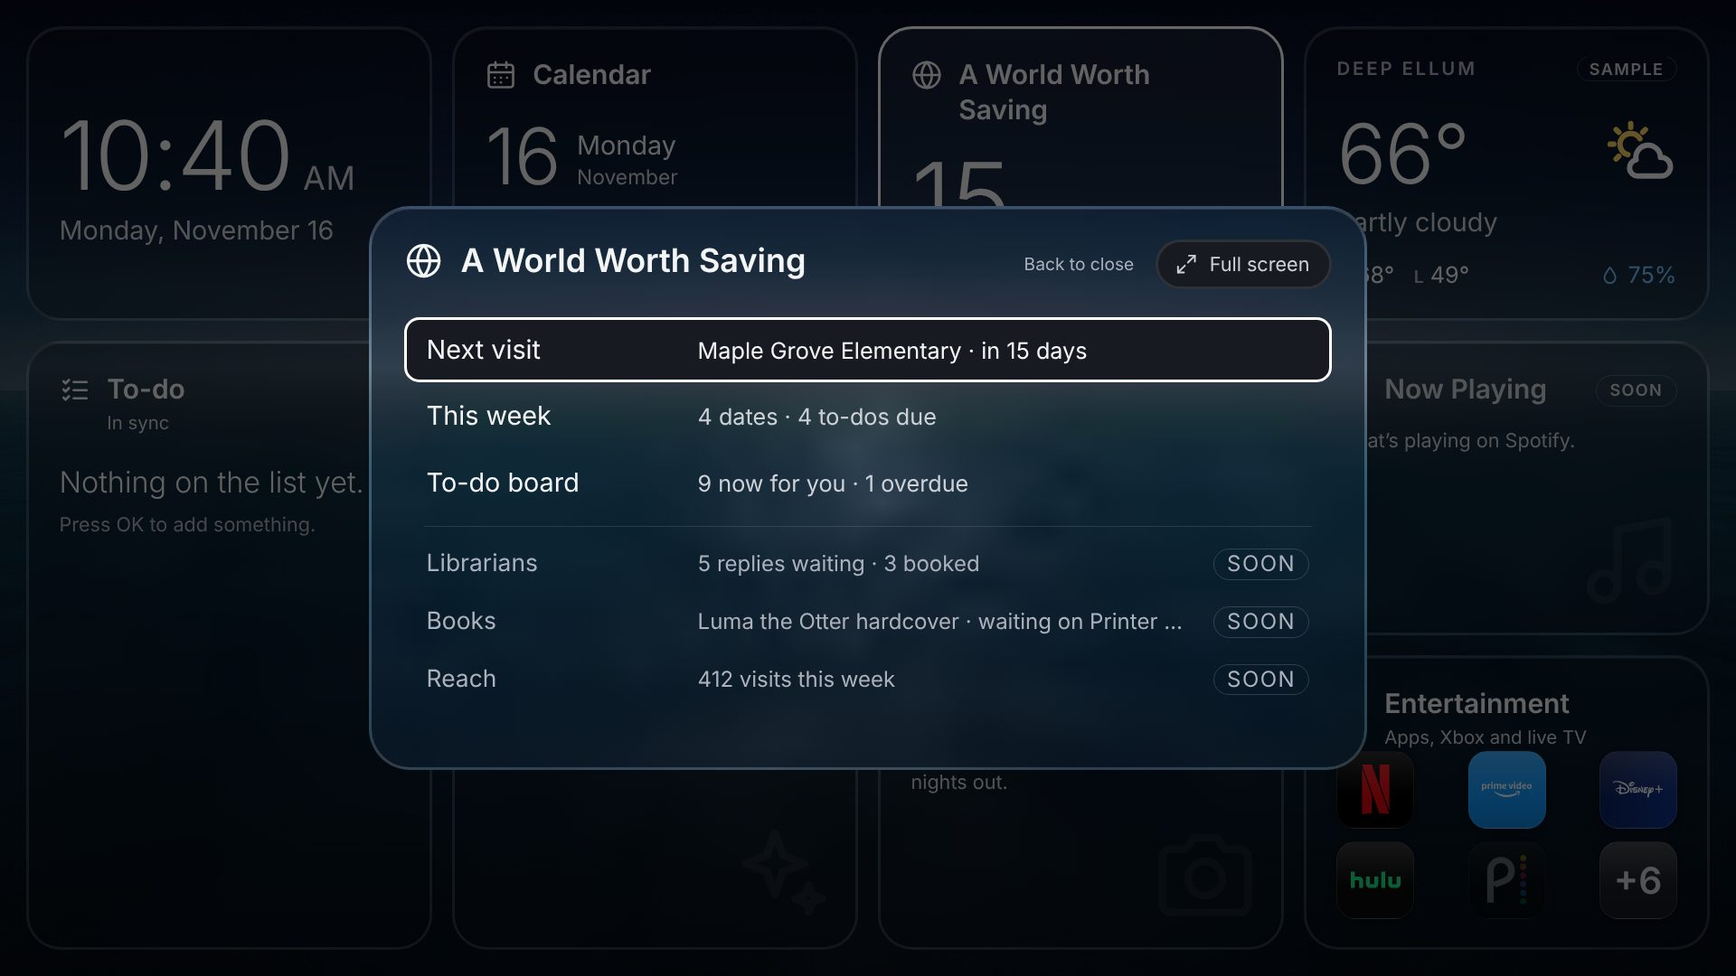
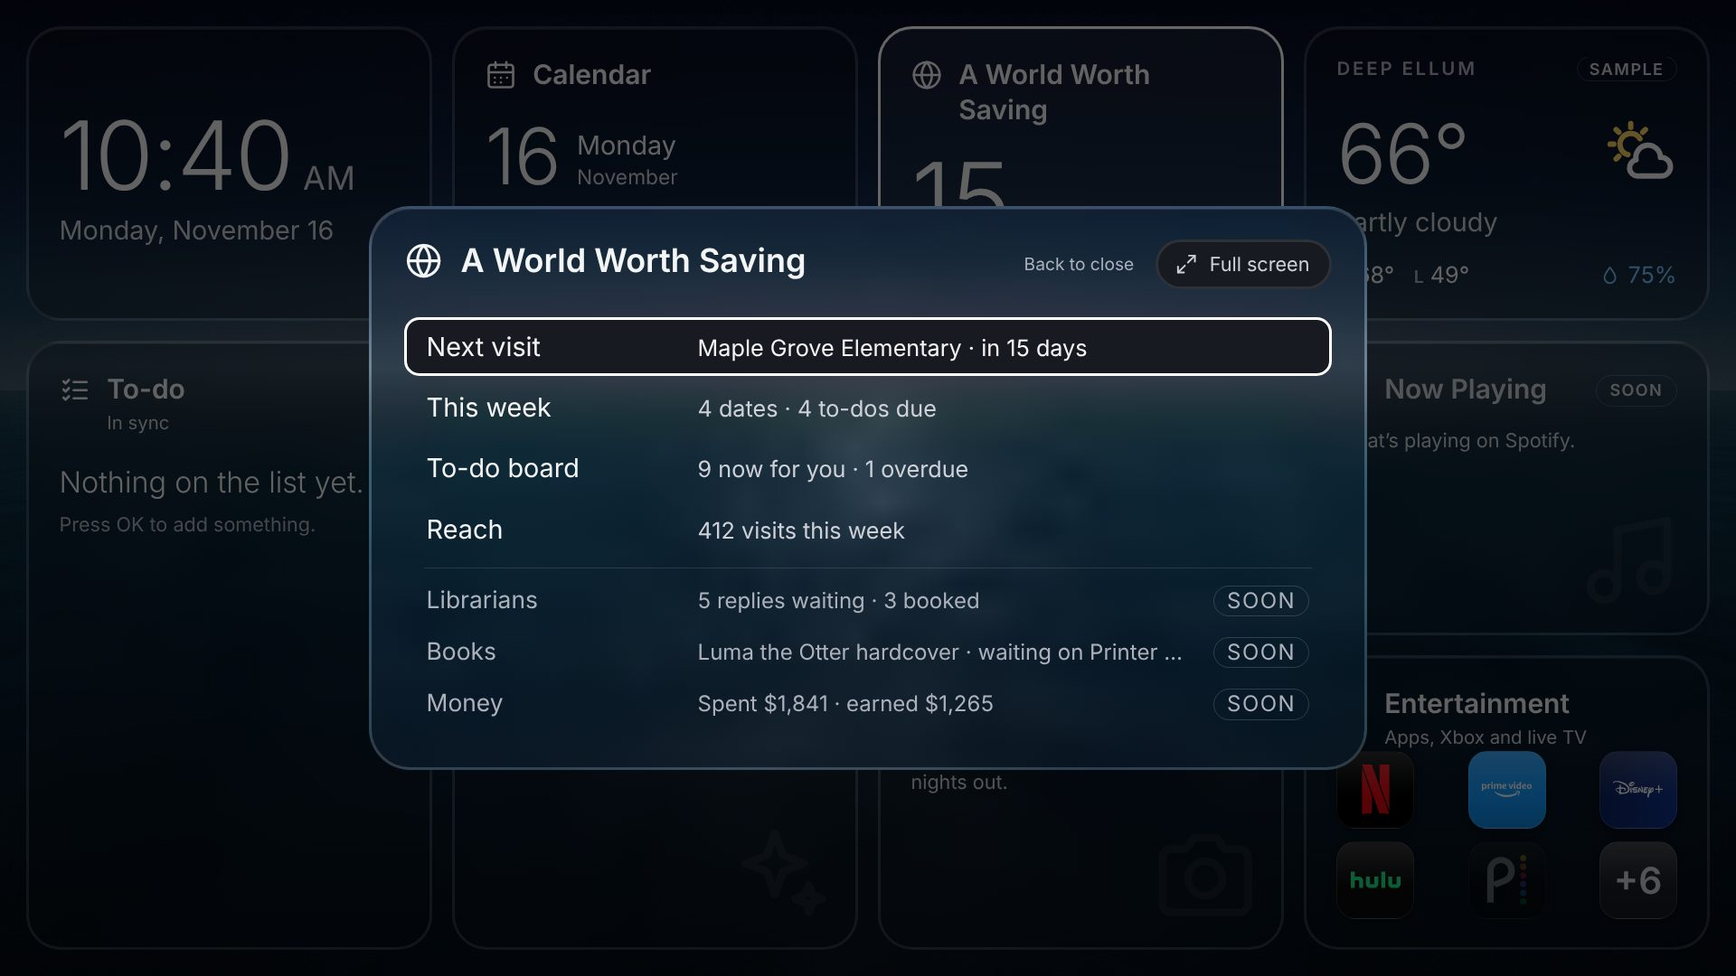
AWWS docs and screenshots: Reach, money on the TV
README, docs/tile-sizes.md and docs/awws-snapshot.md describe the Reach
tile at each size and with each shape of data, the optional reach
figures and subscribersAsOf, and money now on the TV (showMoney false
keeps it off). New shots: the Reach size sheets (two with every figure,
one with subscribers alone) and the Reach panel, full screen and
subscribers-alone panel, in English and Spanish. Retaken: the Glance
launcher and full screen, the one-screen layout, the 9 x 6 sheet and the
placeholders sheet. The other shots are unchanged.

Claude-Session: https://claude.ai/code/session_01T64USbWjWdtU9LK5xivQqx

Changed region(s): [[0.2188, 0.3361, 0.7812, 0.7333], [0.6875, 0.55, 0.75, 0.7333]]

diff --git a/docs/tile-sizes.md b/docs/tile-sizes.md
@@ -19,10 +19,11 @@ This mirrors `SIZE_MATRIX` in the Layout Studio artifact (English text only; the
 | To-do | Icon and title, the number of Now items, then the first Now item on one line, amber if overdue. A narrow strip drops the title. | Icon, title and sync line, a big count “to do now”, a line like “1 next · 1 waiting”, then as many Now items as fit and “+N more”. At 2 rows often no item fits; the count says it all. | Standard with room for the list: up to 8 Now items, each with a tick circle and an Overdue flag when late, then “+N more”. | An Add an item box, then Now, with Next, Waiting on and Done today below it. The focused row shows Move and Remove buttons. | Two columns: Add and Now on the left; Next, Waiting on and Done today on the right. |
 | Calendar | Icon and title, then one line: a color bar, the time (or Now, or All day) and the next event. A narrow strip drops the title. | Icon and title, the day number with weekday and month, then today’s all-day and upcoming events and “+N more”. If not even one event fits, the date gives way. | Standard plus “Coming up”: the next days’ events with day and time, as many as fit. | Today, then Day, Week and Month tabs and the date. Day: an hour timeline with a detail pane; Week: seven columns; Month: a grid. Calendar colors and key hints at the bottom. | The same views at full screen: taller hours, bigger text and a wider detail pane. |
 | Now Playing | Icon, title and Soon on one line, the description on the next, cut with “…”. A narrow strip (1–2 columns) hides Soon. | Icon, title and Soon, then the description in as many lines as fit, with a faint icon behind. Narrow: the title is cut with “…” and Soon gets its own line. | Icon, title and Soon at the top, then a big faint icon centered above the description. | Not built yet. The panel opens with the description, “Not built yet. This spot is reserved for it.” and a large faint icon. | Not built yet. The same as Clicked at full screen, with bigger text and icon. |
-| A World Worth Saving (`awws`, the Glance) | One line: a green bar, the next school visit and “in 15 days”, then “· 9 now for you · 5 replies waiting” as far as it fits whole. With no visit: the number of Now items for Ian. A narrow strip shows only the big countdown. 1 column: the number of days, or Today, Tomorrow or Now. | The big countdown (15 days, or Today with the time), the school and its day and time, and a foot line “9 now for you · 5 replies waiting”. At 6+ columns the right half lists Ian’s Now items. | Standard plus lists that fit in turn: Ian’s Now items, then Coming up (the next events). At 6 × 4 and up it becomes a dashboard in four quarters: Next visit, This week (seven days with dots and the next items), Now for you, and Progress (Librarians, Books, the rewrite with a bar, Handoffs). 9 × 5 and up is a step bigger. | A launcher: Next visit, This week and To-do board, each with its one-line status; OK opens that view in the same panel and Back returns to the launcher. Below a line, Librarians, Books and Reach (and Money when `showMoney` is on) with their figure and a Soon tag. | The dashboard in four quarters, bigger. OK on a quarter opens that view; Back returns to the dashboard. |
+| A World Worth Saving (`awws`, the Glance) | One line: a green bar, the next school visit and “in 15 days”, then “· 9 now for you · 5 replies waiting” as far as it fits whole. With no visit: the number of Now items for Ian. A narrow strip shows only the big countdown. 1 column: the number of days, or Today, Tomorrow or Now. | The big countdown (15 days, or Today with the time), the school and its day and time, and a foot line “9 now for you · 5 replies waiting”. At 6+ columns the right half lists Ian’s Now items. | Standard plus lists that fit in turn: Ian’s Now items, then Coming up (the next events). At 6 × 4 and up it becomes a dashboard in four quarters: Next visit, This week (seven days with dots and the next items), Now for you, and Progress (Librarians, Books, the rewrite with a bar, Handoffs, then Money while `showMoney` is on, as it ships; rows that don't fit are left out, so 6 × 4 shows the first three). 9 × 5 and up is a step bigger. | A launcher: Next visit, This week, To-do board and Reach, each with its one-line status (“412 visits this week”, or “2 subscribers” while only those are counted); OK opens that view in the same panel and Back returns to the launcher. Below a line, Librarians and Books (and Money, “Spent $1,841 · earned $1,265”, while `showMoney` is on) with their figure and a Soon tag. | The dashboard in four quarters, bigger. OK on a quarter opens that view; Back returns to the dashboard. |
 | Next visit (`awws-visits`) | A green bar, the school, then the day and time (“Tue, Dec 1 · 12:15 PM”, with the place when it fits). When the school name would be cut, the day goes on a small line above a two-line name. A narrow strip shows only the countdown. 1 column: the number of days. | The big countdown, the school, and its day, time and place on one line. | Standard plus Then: the next visits with their countdown (“16 d”) and date. | Every visit in the next 60 days: countdown, school, the full date and time, and the place. | The same list, bigger; two columns once there are more than four visits. |
 | This week (`awws-agenda`) | Today’s next item with its time; at 6+ columns the next ones follow while they fit whole. With nothing today: “Nothing today” and the day of the next item. 1 column: the number of items today. | Today and the next days as rows (day and time over the title) and “+N more”. At 6+ columns: seven day columns with a dot per item (hollow for a to-do) and the titles on up to two lines. | Standard with more rows, or, wide, taller day columns. | The next 14 days grouped by day, project dates and to-dos with a due date together; a to-do shows whose it is. | Two columns, split by rows, whole days only. |
 | To-do board (`awws-todo`) | The number of Now items for Ian, then his first one on up to two lines. 1 column: that number. | The big count “now for you”, then “1 overdue · Claude 3 · Both 3” (overdue in amber, kept first when the line is short), then Ian’s first item if it fits. At 6+ columns the right half lists Ian’s Now items with due dates. | Every Now item with an owner chip (Ian, Claude, Both; I, C, B when narrow), its due date or Overdue in amber, and what it waits on, then “+N more”. | All, Ian, Claude and Both along the top: Left and Right move the filter. Then Now, Next and Later with counts, and Done this week. | The board on the left and, on the right, a bar per work stream. |
-| Librarians, Books, Money, Reach (`awws-outreach`, `awws-pipeline`, `awws-money`, `awws-reach`) | Icon, title and Soon on one line, the description on the next, cut with “…”. A narrow strip (1–2 columns) hides Soon. | Icon, title and Soon, then the description in as many lines as fit, with a faint globe behind. Narrow: the title is cut with “…” and Soon gets its own line. | Icon, title and Soon at the top, then a big faint globe centered above the description. | Not built yet. The panel opens with the description, “Not built yet.” and a large faint globe. | The same as Clicked at full screen, with bigger text and globe. |
+| Reach (`awws-reach`) | The number and its words: “412 visits this week · ▲ up 24 vs 388”, then “· 23 buy clicks · 187 subscribers” as far as they fit whole. With subscribers alone: “2 subscribers · at last check Nov 16”. A narrow strip shows the number and one word. 1 column: the number and “visits” (or “subs”). | The big number “412 visits this week” (“visits” when the words would wrap), then “▲ up 24 · vs 388 last week” and “23 buy clicks · ▼ down 4”; the arrows only help, the words say it. At 6+ columns the right half is a line of the last 14 days, the last day marked with a dot. With subscribers alone: “2 subscribers” and “at last check Nov 16”. | Standard plus the 14-day line, flier scans as bars (up to five schools) and “187 subscribers · at last check Nov 16” at the bottom. Wide: the line under the figures, the scans and subscribers on the right. Subscribers alone: a quiet line that visits and buy clicks show once the sync sends them. | Site visits and Buy clicks, each with this week, the change from last week and a line of up to 28 days; then flier scans by school and the subscribers with their last-check date. Each part takes focus, so a long panel scrolls. Subscribers alone: that part and the line about visits and buy clicks. | Two columns, bigger: visits and buy clicks on the left, scans and subscribers on the right. |
+| Librarians, Books, Money (`awws-outreach`, `awws-pipeline`, `awws-money`) | Icon, title and Soon on one line, the description on the next, cut with “…”. A narrow strip (1–2 columns) hides Soon. | Icon, title and Soon, then the description in as many lines as fit, with a faint globe behind. Narrow: the title is cut with “…” and Soon gets its own line. | Icon, title and Soon at the top, then a big faint globe centered above the description. | Not built yet. The panel opens with the description, “Not built yet.” and a large faint globe. | The same as Clicked at full screen, with bigger text and globe. |
 | Ambiance | Icon, title and Soon on one line, the description on the next, cut with “…”. A narrow strip (1–2 columns) hides Soon. | Icon, title and Soon, then the description in as many lines as fit, with a faint icon behind. Narrow: the title is cut with “…” and Soon gets its own line. | Icon, title and Soon at the top, then a big faint icon centered above the description. | Not built yet. The panel opens with the description, “Not built yet. This spot is reserved for it.” and a large faint icon. | Not built yet. The same as Clicked at full screen, with bigger text and icon. |
 | Mirror | Icon, title and Soon on one line, the description on the next, cut with “…”. A narrow strip (1–2 columns) hides Soon. | Icon, title and Soon, then the description in as many lines as fit, with a faint icon behind. Narrow: the title is cut with “…” and Soon gets its own line. | Icon, title and Soon at the top, then a big faint icon centered above the description. | Not built yet. The panel opens with the description, “Not built yet. This spot is reserved for it.” and a large faint icon. | Not built yet. The same as Clicked at full screen, with bigger text and icon. |

diff --git a/README.md b/README.md
@@ -175,7 +175,7 @@ When something is missing the tile says so in plain words: "Calendar needs the P
 
 ## A World Worth Saving
 
-Four tiles for the book project, all with a globe icon. They read two things from the hub server on the Raspberry Pi:
+Five tiles for the book project, all with a globe icon. They read two things from the hub server on the Raspberry Pi:
 
 - **Calendars, by name.** Visits come from the calendar named "School Visits"; project dates from "A World Worth Saving". Any other calendar on the Pi (the family one, say) never shows on these tiles. The names are in `app/config.js`, under `widgets.awws.calendars`.
 - **A snapshot of the project**, sent to the Pi by a Claude sync through the mailbox, or by hand with `./hub awws set` (the file is described in [docs/awws-snapshot.md](docs/awws-snapshot.md)): the to-do board, handoffs, librarians, books, the rewrite, money and reach. Each copy that arrives is checked and the tiles redraw only when what they show changes.
@@ -188,14 +188,19 @@ The tiles:
 - **Next visit** (`awws-visits`): "15 days" to the next visit, the school, the day, time and place, then the visits after it.
 - **This week** (`awws-agenda`): project dates and to-dos that are due, day by day. A wide tile has seven day columns with a dot per item; a hollow dot is a to-do.
 - **To-do board** (`awws-todo`): how many Now items are yours, the overdue count in amber, then the items with their owner (Ian, Claude or Both), due date and what they wait on.
+- **Reach** (`awws-reach`): site visits this week as the big number, up or down from last week, and a line of the last 14 days; then buy clicks, flier scans by school, and newsletter subscribers with the day they were last counted. Subscribers are counted by hand for now, so today it shows "2 subscribers, at last check Nov 16"; the visits take over as the big number once the sync sends them. Its panel has each figure with a longer trend.
 
-Librarians, Books, Money and Reach (`awws-outreach`, `awws-pipeline`, `awws-money`, `awws-reach`) hold their spot with a "Soon" tag for now. [docs/tile-sizes.md](docs/tile-sizes.md) says what each tile shows at each size.
+Librarians, Books and Money (`awws-outreach`, `awws-pipeline`, `awws-money`) hold their spot with a "Soon" tag for now. [docs/tile-sizes.md](docs/tile-sizes.md) says what each tile shows at each size.
+
+Reach is a real tile but is on no layout yet. To place it, open the Layout Studio and drop it where you want it, or on the Pi run `./hub layout show`, change one tile in the list to `{"widget": "awws-reach", "x": 9, "y": 3, "w": 3, "h": 3}` (any free spot and size), and send the list back with `./hub layout set layout.json`. The Glance's panel opens Reach as well.
+
+![Reach at every size, with visits, buy clicks, scans and subscribers](docs/screenshots/awws-sizes-reach-a.jpg)
 
 Two layouts in the switcher use them: **AWWS desk** (above) and **AWWS one screen**, the Glance as a big dashboard with Today, Weather and Calendar beside it. **Main** keeps the Glance at 3 × 4.
 
 ![AWWS one screen: the Glance as a dashboard of four parts](docs/screenshots/awws-layout-one-screen.jpg)
 
-Open the Glance and it lists Next visit, This week and To-do board with a line each; OK opens one in the same panel, and Back goes back to the list. In full screen it shows the dashboard instead, and OK on a part opens it. In the To-do board, Left and Right pick whose items show: All, Ian, Claude or Both.
+Open the Glance and it lists Next visit, This week, To-do board and Reach with a line each; OK opens one in the same panel, and Back goes back to the list. In full screen it shows the dashboard instead, and OK on a part opens it. In the To-do board, Left and Right pick whose items show: All, Ian, Claude or Both.
 
 ![The To-do board panel, showing Ian's items](docs/screenshots/awws-panel-todo-ian.jpg)
 
@@ -209,12 +214,12 @@ Settings, in `app/config.js`:
 widgets: {
   awws: {
     calendars: { visits: ['School Visits'], awws: ['A World Worth Saving'] },
-    showMoney: false
+    showMoney: true
   }
 }
 ```
 
-`showMoney: true` adds money to the Glance's list and dashboard. Every word on the tiles is in one `STRINGS` object at the top of `app/widgets/awws.js`; `window.HUB_AWWS_STRINGS` replaces any of them (the tests use it to try the tiles in Spanish, which runs about a quarter longer).
+`showMoney: true` adds a money line ("Spent $1,841 · earned $1,265") to the Glance's list and dashboard. Ian said yes to money on the TV on 2026-11-16; set it to `false` to keep money figures off the TV (for guests, say). Every word on the tiles is in one `STRINGS` object at the top of `app/widgets/awws.js`; `window.HUB_AWWS_STRINGS` replaces any of them (the tests use it to try the tiles in Spanish, which runs about a quarter longer).
 
 To try it on a laptop, with `node dev/preview.js` running, send the sample snapshot to the preview's hub server:
 
@@ -222,11 +227,13 @@ To try it on a laptop, with `node dev/preview.js` running, send the sample snaps
 node dev/awws-sample.js | HUB_TOKEN=preview-token-not-a-secret-000000 node pi/hubctl.js awws set -
 ```
 
+Add `--reach subscribers` to `node dev/awws-sample.js` (only the hand-counted subscribers, as today) or `--reach traffic` (visits, buy clicks and scans, no subscribers) to try Reach with the other shapes of its data.
+
 The preview's sample calendars aren't named "School Visits", so Next visit says that calendar is missing; the tests and screenshots bring their own.
 
-`node dev/awws-test.js` runs the real hub and the real hub server from `pi/` in a headless browser (Playwright), with the clock fixed at Monday 16 November 2026, 10:40 AM in Chicago and the sample calendars and snapshot from `dev/awws-sample.js`. It checks every AWWS tile at 11 sizes in English and in Spanish (no console errors, never blank, nothing clipped, no type under 0.85rem on a tile or 1rem in a panel), that a Family event never shows, the countdown across midnight in Chicago (with the TV in Chicago and in Tokyo), overdue in amber, a calendar without a snapshot and the other way round, an old Pi with no snapshot, broken snapshots and a broken saved copy, the same snapshot sent twice, the Glance's list and Back, the owner filter, full screen, and the layout switcher with five layouts. It needs port 8095 free.
+`node dev/awws-test.js` runs the real hub and the real hub server from `pi/` in a headless browser (Playwright), with the clock fixed at Monday 16 November 2026, 10:40 AM in Chicago and the sample calendars and snapshot from `dev/awws-sample.js`. It checks every AWWS tile at 11 sizes in English and in Spanish (no console errors, never blank, nothing clipped, no type under 0.85rem on a tile or 1rem in a panel), that a Family event never shows, the countdown across midnight in Chicago (with the TV in Chicago and in Tokyo), overdue in amber, a calendar without a snapshot and the other way round, an old Pi with no snapshot, broken snapshots and a broken saved copy, the same snapshot sent twice, the Glance's list and Back, the owner filter, full screen, and the layout switcher with five layouts. For Reach it checks every size in both languages with subscribers alone, traffic alone and both, its panel and full screen, no reach section, and the Glance opening it; and that `showMoney` shows and hides the money line. It needs port 8095 free.
 
-`node dev/awws-shots.js` takes the `docs/screenshots/awws-*` pictures, each in English and in Spanish (`-es`): the layouts, the size sheets, the panels and the states. `--out <folder>` saves them elsewhere, `--scale 2` doubles the pixels, `--only <text>` takes only the shots whose name holds the text, and `--clip <folder>` records a short walk through the tiles into that folder instead of the pictures (mp4 with ffmpeg, otherwise webm).
+`node dev/awws-shots.js` takes the `docs/screenshots/awws-*` pictures, each in English and in Spanish (`-es`): the layouts, the size sheets, the panels and the states. A layout holds each widget once, so the Reach size sheets are put together from one page per tile. `--out <folder>` saves them elsewhere, `--scale 2` doubles the pixels, `--only <text>` takes only the shots whose name holds the text, and `--clip <folder>` records a short walk through the tiles into that folder instead of the pictures (mp4 with ffmpeg, otherwise webm).
 
 ## Live updates
 

diff --git a/docs/awws-snapshot.md b/docs/awws-snapshot.md
@@ -39,7 +39,7 @@ One JSON object. `v` and `sentAt` are required. Every section is optional.
   "khaya":    { "asOf": "...", "done": 11, "total": 12 },
   "pipeline": { "asOf": "...", "stages": [ ... ], "items": [ ... ] },
   "money":    { "asOf": "...", "currency": "USD", "spent": 0, "earned": 0 },
-  "reach":    { "asOf": "...", "visits": { "week": 0, "prev": 0 } }
+  "reach":    { "asOf": "...", "subscribers": 2, "subscribersAsOf": "2026-11-16" }
 }
 ```
 
@@ -124,7 +124,7 @@ Open items, plus items ticked in the last 7 days. Order in `items` is the order 
 
 ### `money`
 
-Stored like any other section. The TV does not show it unless `HUB_CONFIG.widgets.awws.showMoney` is `true` in `app/config.js` (it ships `false`). Until Ian says yes to money on the living room TV, the sender should leave this section out.
+Stored like any other section. Ian said yes to money figures on the living room TV on 2026-11-16, so the sender may include this section, and `HUB_CONFIG.widgets.awws.showMoney` in `app/config.js` ships `true`. With it, the Glance shows a money line ("Spent $1,841 · earned $1,265") in its Progress list and in its launcher. To keep money off the TV (for guests, say), set `showMoney` to `false`; the Pi still stores the section. The Money tile itself is still a placeholder.
 
 | Field | Type | Notes |
 |---|---|---|
@@ -136,11 +136,14 @@ Stored like any other section. The TV does not show it unless `HUB_CONFIG.widget
 
 ### `reach`
 
+Newsletter subscribers are counted by hand for now, and the site traffic figures come later, so every field here is optional. The section must hold at least one of `visits`, `buyClicks`, `subscribers` and `scans`; a reach section with none of them is refused and the Pi says which fields it may hold.
+
 | Field | Type | Notes |
 |---|---|---|
-| `visits` | object | required: `{ "week": 412, "prev": 388, "days": [ ... ] }`. `week` and `prev` are whole numbers; `days` is optional, at most 28 whole numbers, oldest first |
+| `visits` | object | optional: `{ "week": 412, "prev": 388, "days": [ ... ] }`. `week` and `prev` are whole numbers; `days` is optional, at most 28 whole numbers, oldest first |
 | `buyClicks` | object | optional, same shape as `visits` |
-| `subscribers` | whole number | optional |
+| `subscribers` | whole number | optional: newsletter subscribers |
+| `subscribersAsOf` | date or time | optional: when the subscribers were last counted by hand, `2026-11-16` or `2026-11-16T15:10:00Z`. Left out, the TV uses the section's `asOf` |
 | `scans` | list, at most 10 | optional: `{ "school": "...", "count": 14 }`; `school` is text, 40 |
 
 ## What the Pi keeps
@@ -182,6 +185,8 @@ From the cloud, through the Claude mailbox (`pi/CLAUDE.md`): `awws.set {"snapsho
 - `awws` (Glance): counts from `todos`, the first Now items for Ian, and one-line figures from `handoffs`, `outreach`, `pipeline` and `khaya` when they are there.
 - `awws-todo`: the board, by section and owner, with overdue items in amber (`dueISO` before today) and open items per workstream.
 - `awws-agenda`: items with a `dueISO` join the calendar events on their day.
-- `awws-outreach`, `awws-pipeline`, `awws-money`, `awws-reach` are placeholders for now. Their sections are already checked and stored, so the tiles can be built without touching the Pi again.
+- `awws-reach`: site visits this week as the big figure, with the change from last week and a line of the last 14 days, then buy clicks, flier scans by school and subscribers with the day they were last counted. With only `subscribers` (as today) it leads with them: "2 subscribers, at last check Nov 16". Every size works with subscribers alone, traffic alone, or both. The Glance's launcher opens it too. It is on no layout yet; place it with the Layout Studio or `./hub layout set`.
+- `money`: the Glance's money line, while `showMoney` is `true` (above).
+- `awws-outreach`, `awws-pipeline` and `awws-money` are placeholders for now. Their sections are already checked and stored, so the tiles can be built without touching the Pi again.
 
 The TV keeps its last copy (`homeHub.awws.v1`), so the tiles have something to show straight after the TV turns on.
